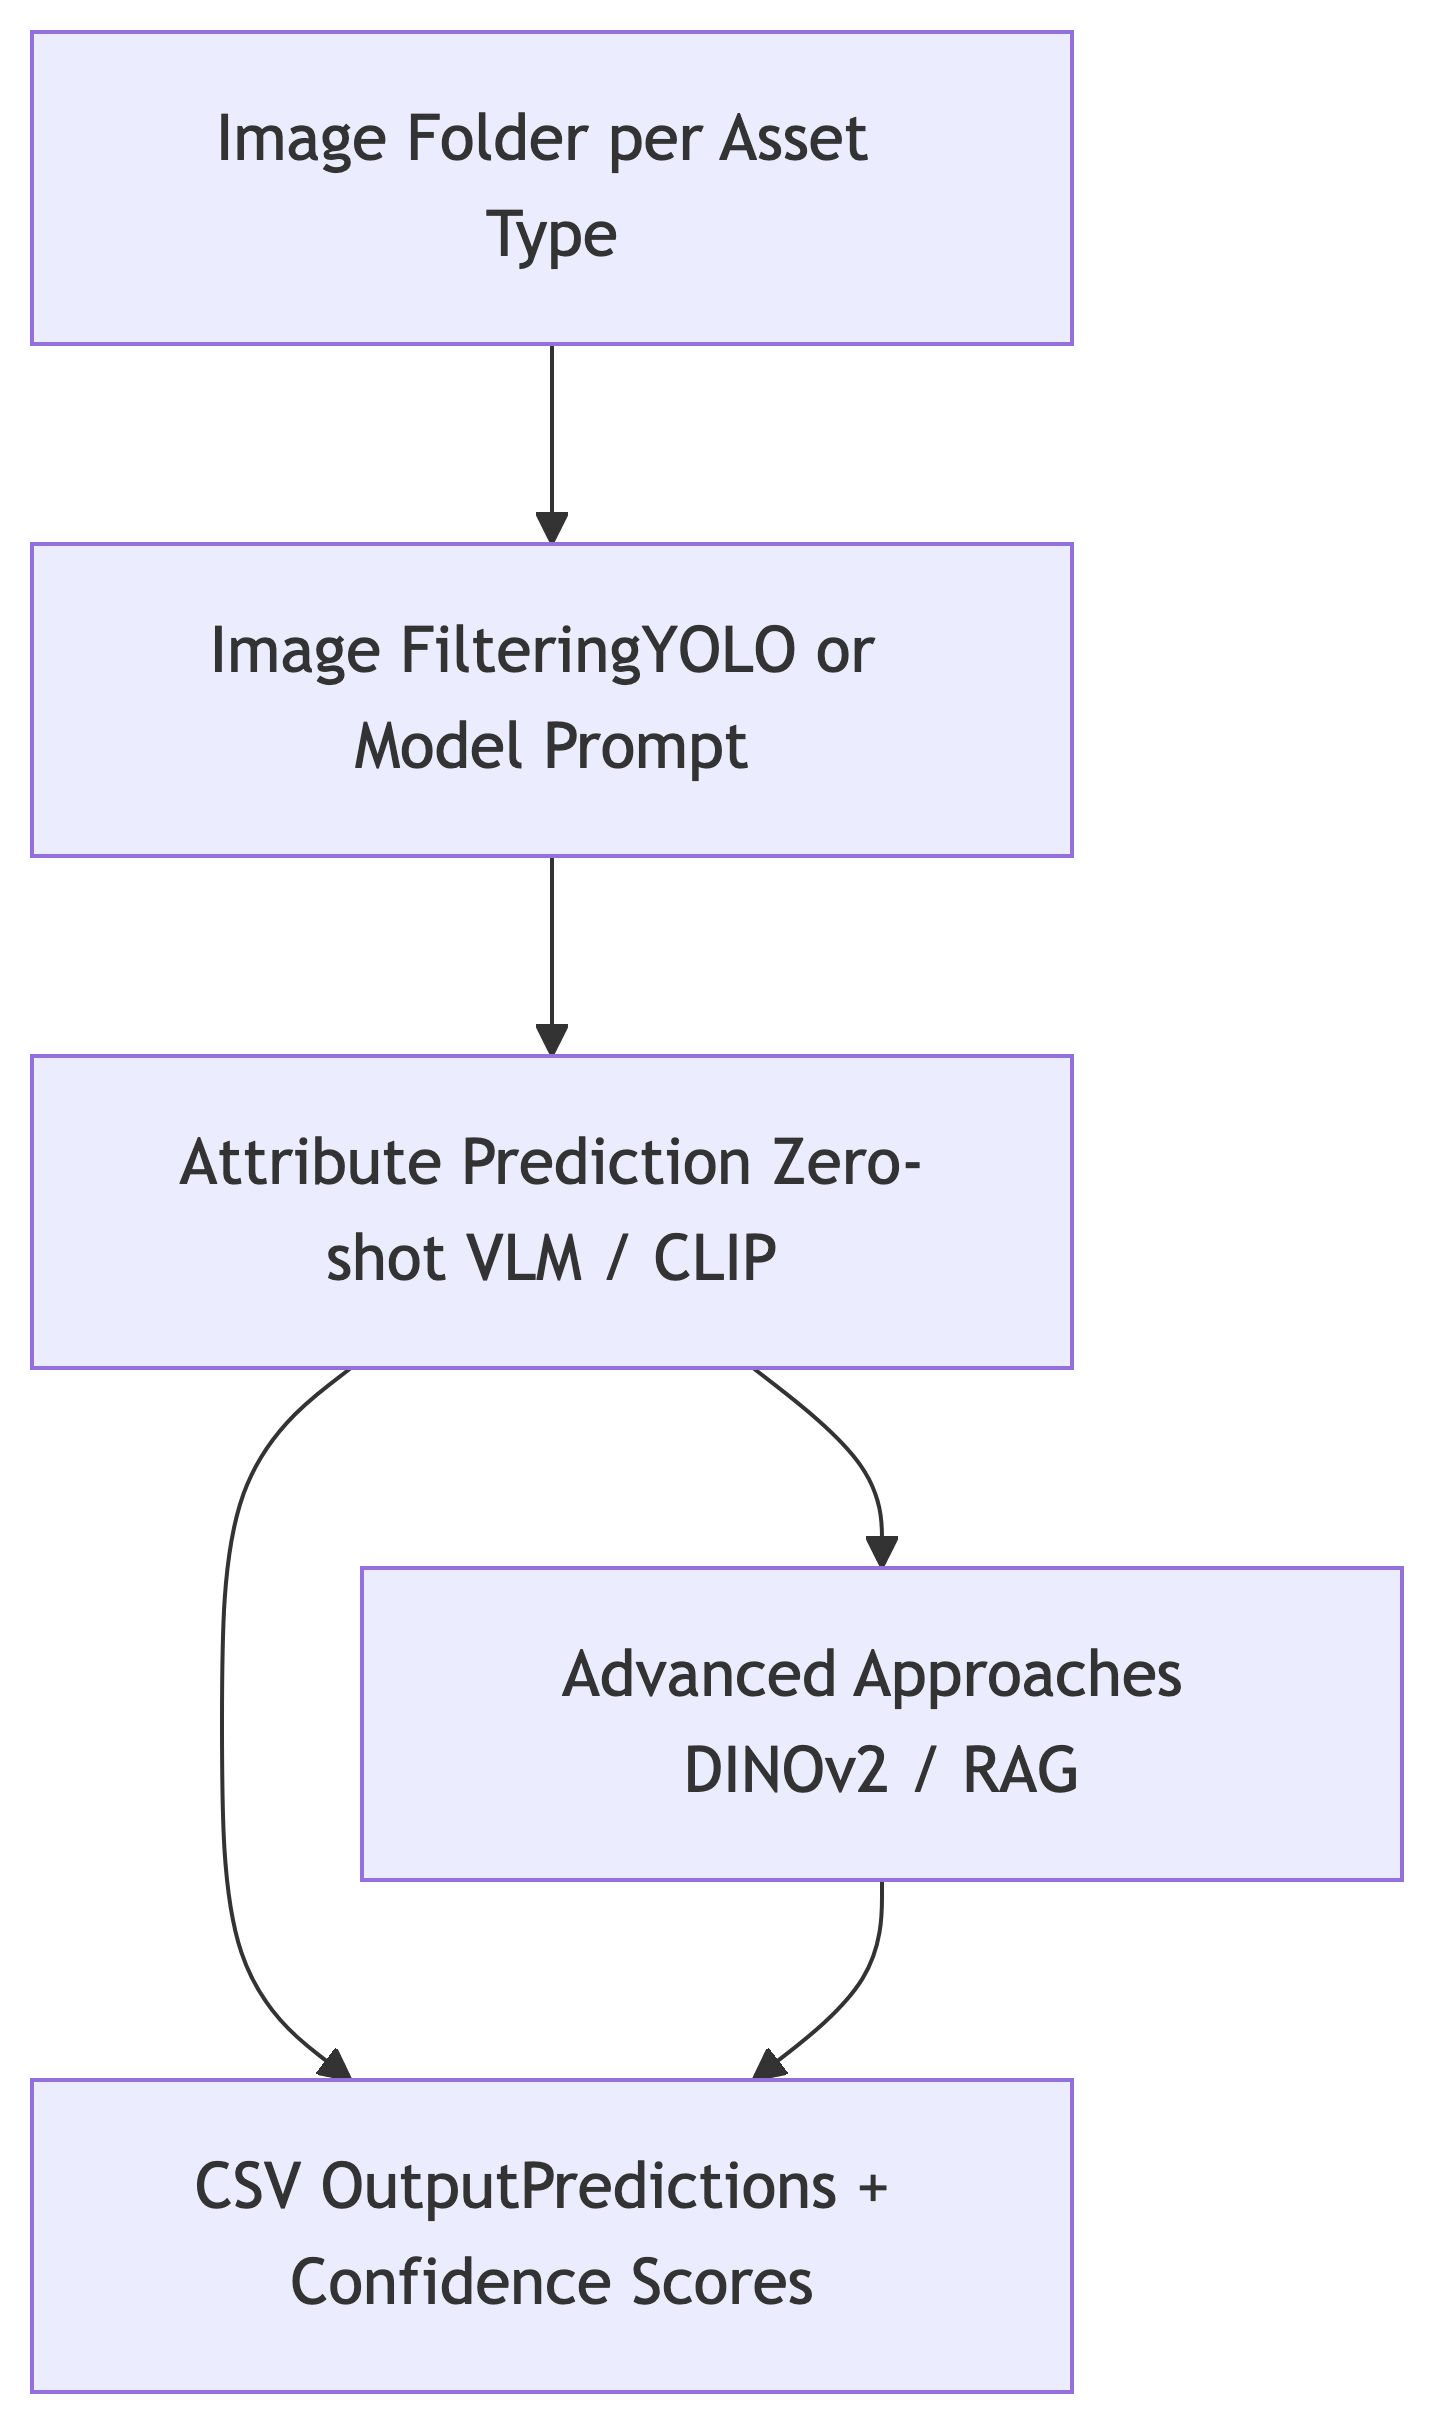
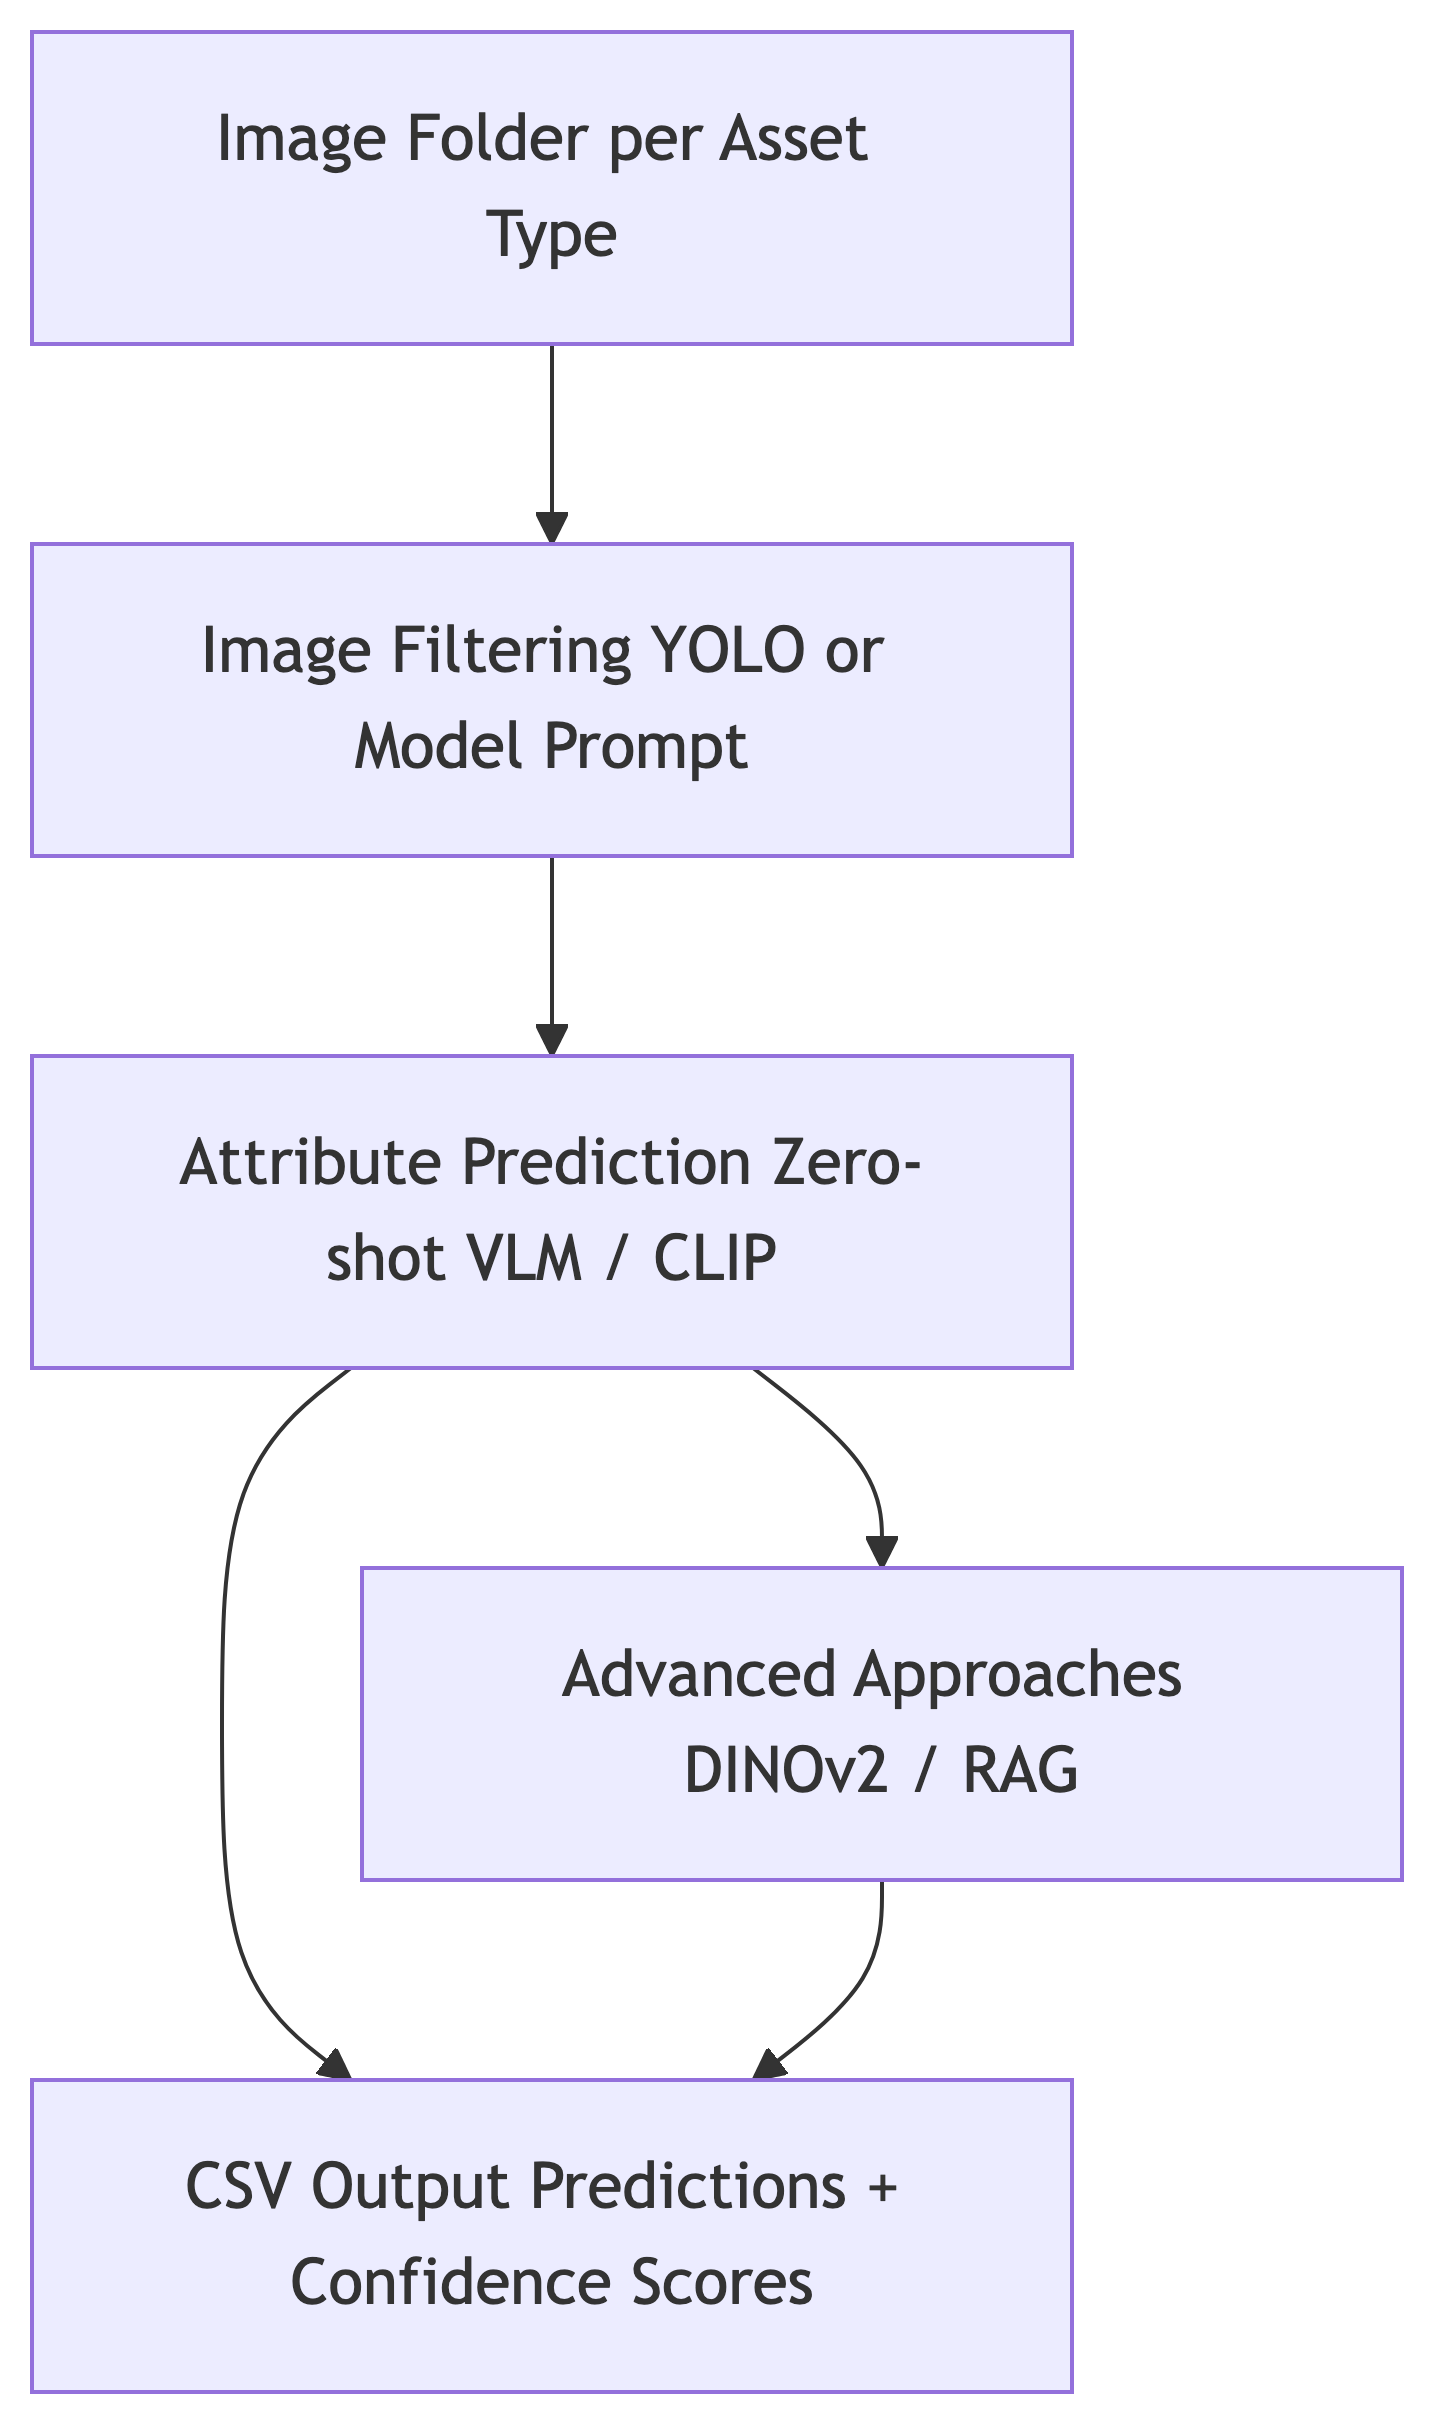
fix mermaid plot and rerender

Changed region(s): [[0.1229, 0.8663, 0.6145, 0.9282], [0.1229, 0.2475, 0.6145, 0.2785]]

diff --git a/reports/Image_analysis_of_park_infrastructure_report.html b/reports/Image_analysis_of_park_infrastructure_report.html
@@ -521,9 +521,9 @@ Figure&nbsp;4: Two sample images of the same boardwalk
 <div aria-describedby="fig-pipeline-caption-0ceaefa1-69ba-4598-a22c-09a6ac19f8ca">
 <div>
 <pre class="mermaid mermaid-js" data-label="fig-pipeline">flowchart TD
-    A["Image Folder per Asset Type"] --&gt; B["Image FilteringYOLO or Model Prompt"]
+    A["Image Folder per Asset Type"] --&gt; B["Image Filtering YOLO or Model Prompt"]
     B --&gt; C["Attribute Prediction Zero-shot VLM / CLIP"]
-    C --&gt; D["CSV OutputPredictions + Confidence Scores"]
+    C --&gt; D["CSV Output Predictions + Confidence Scores"]
     C --&gt; E["Advanced Approaches DINOv2 / RAG"]
     E --&gt; D
 </pre>